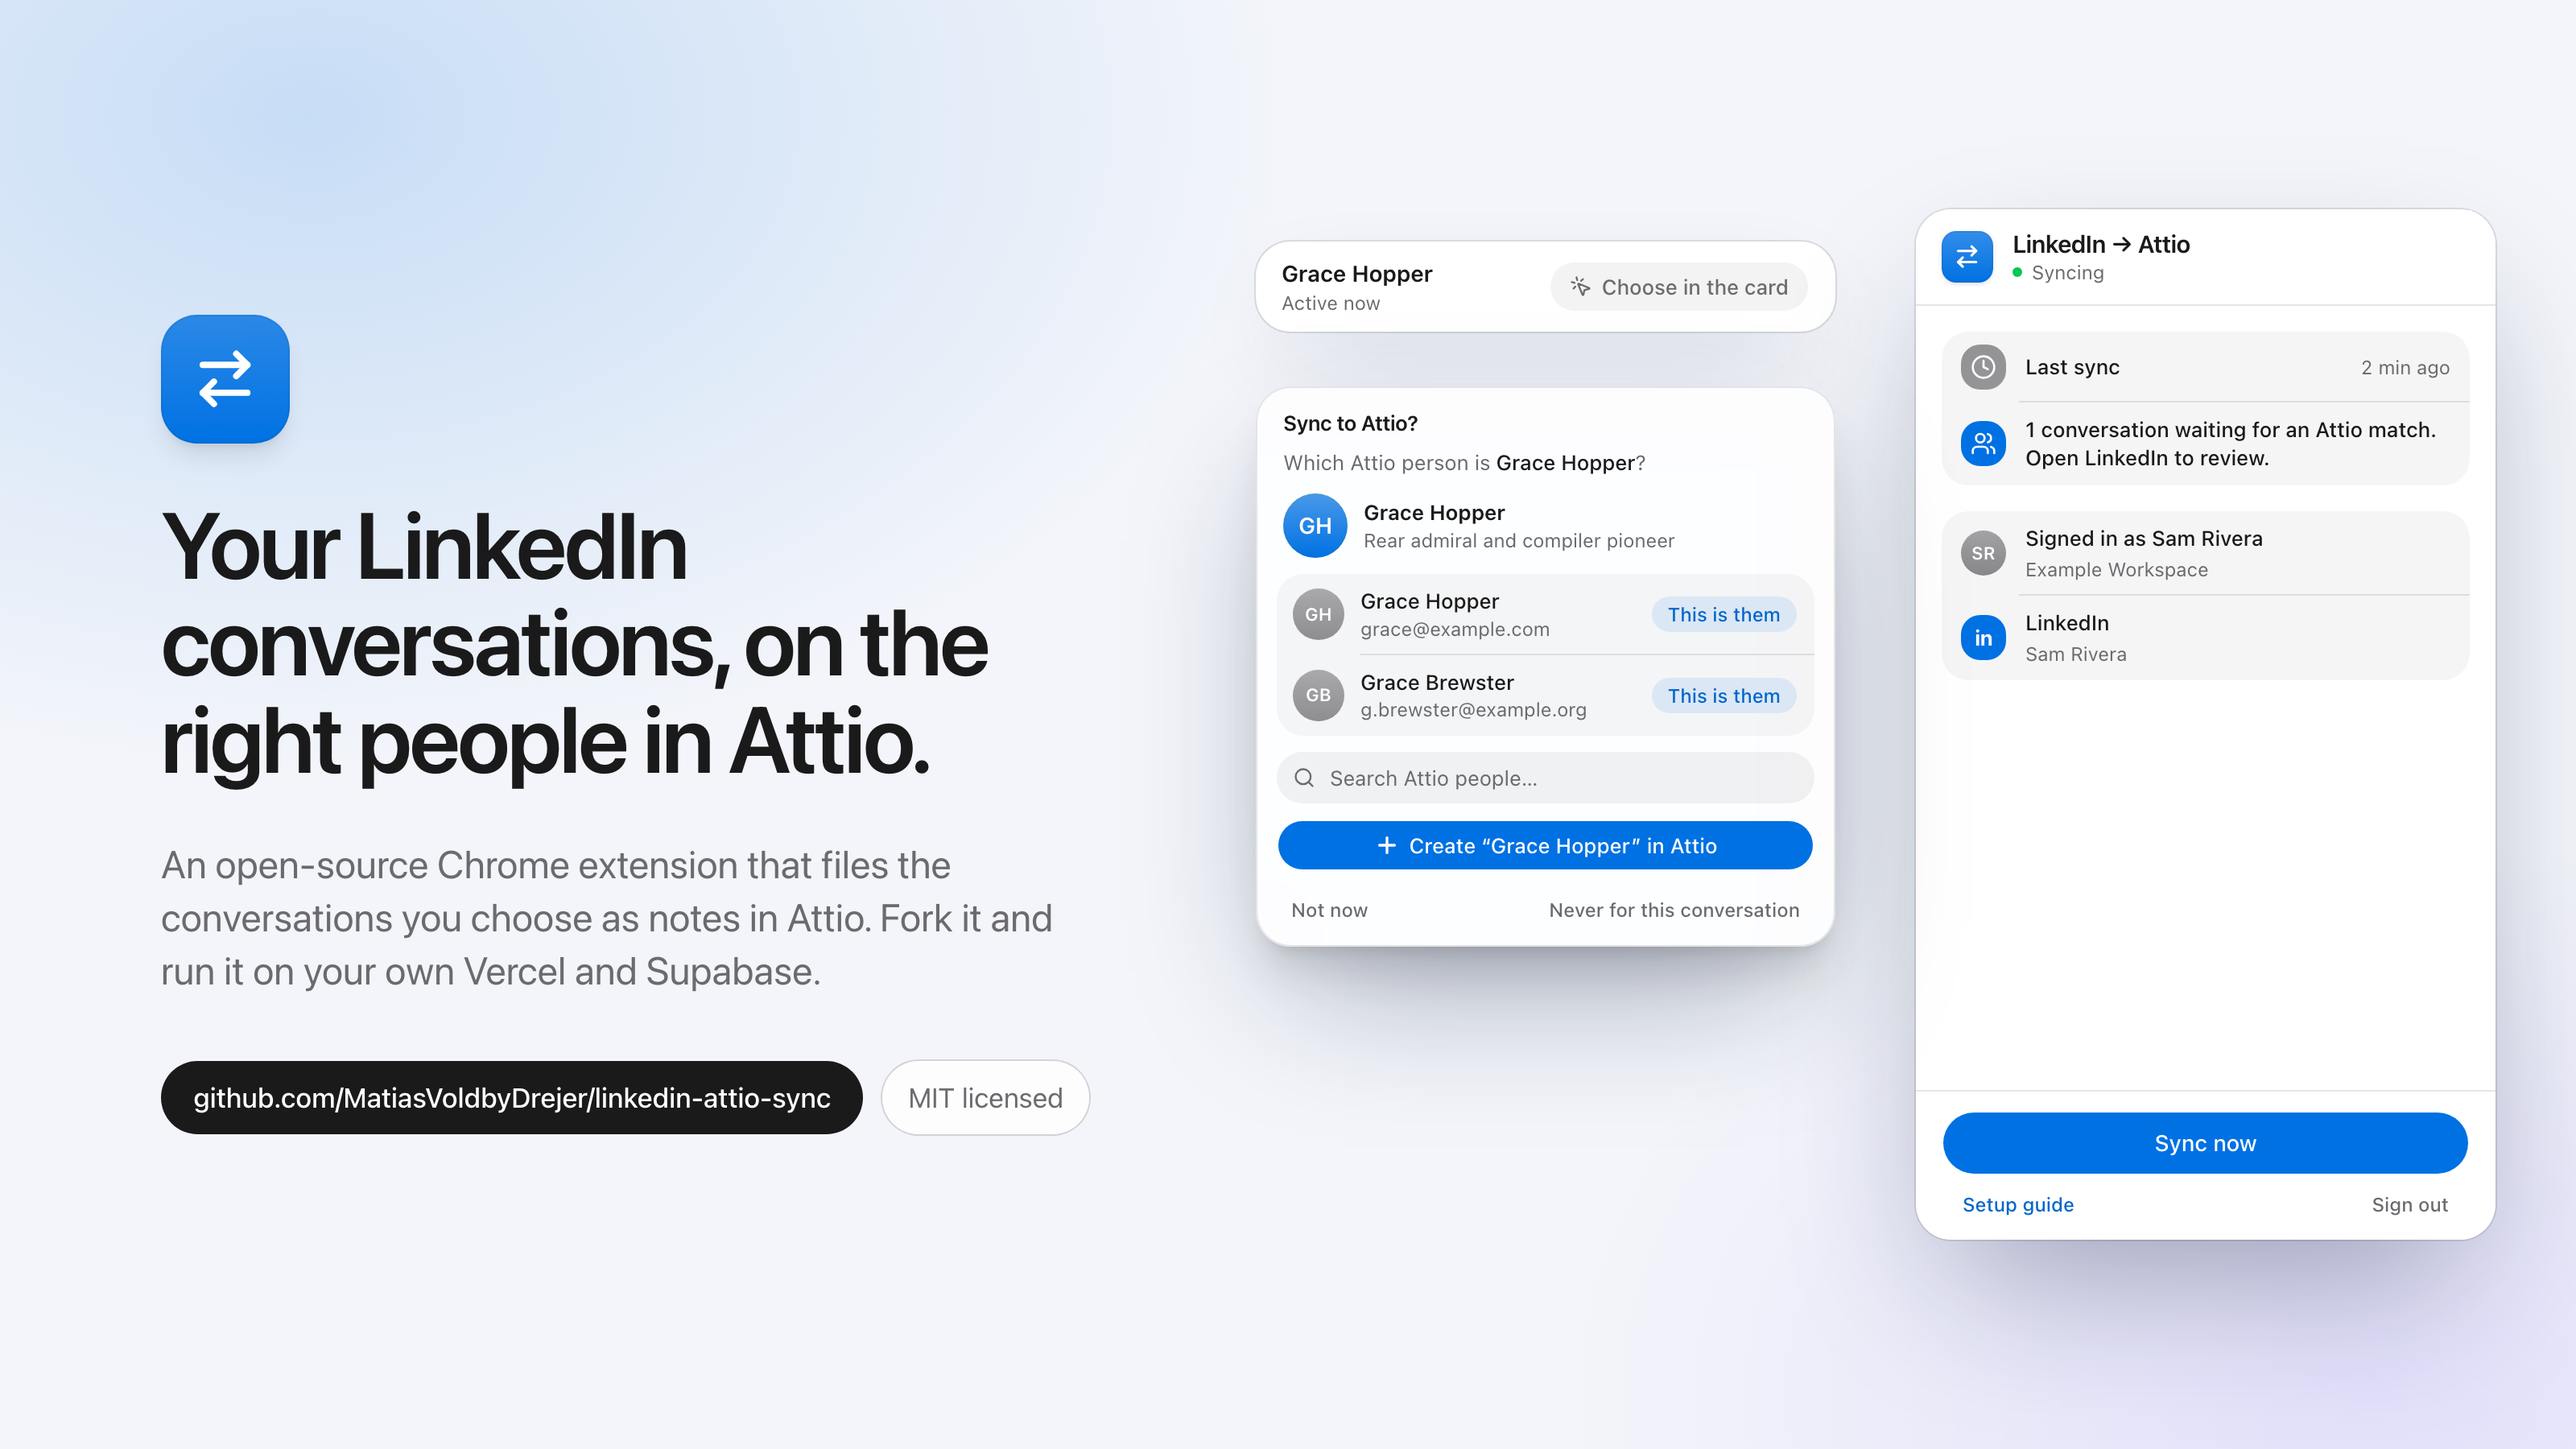
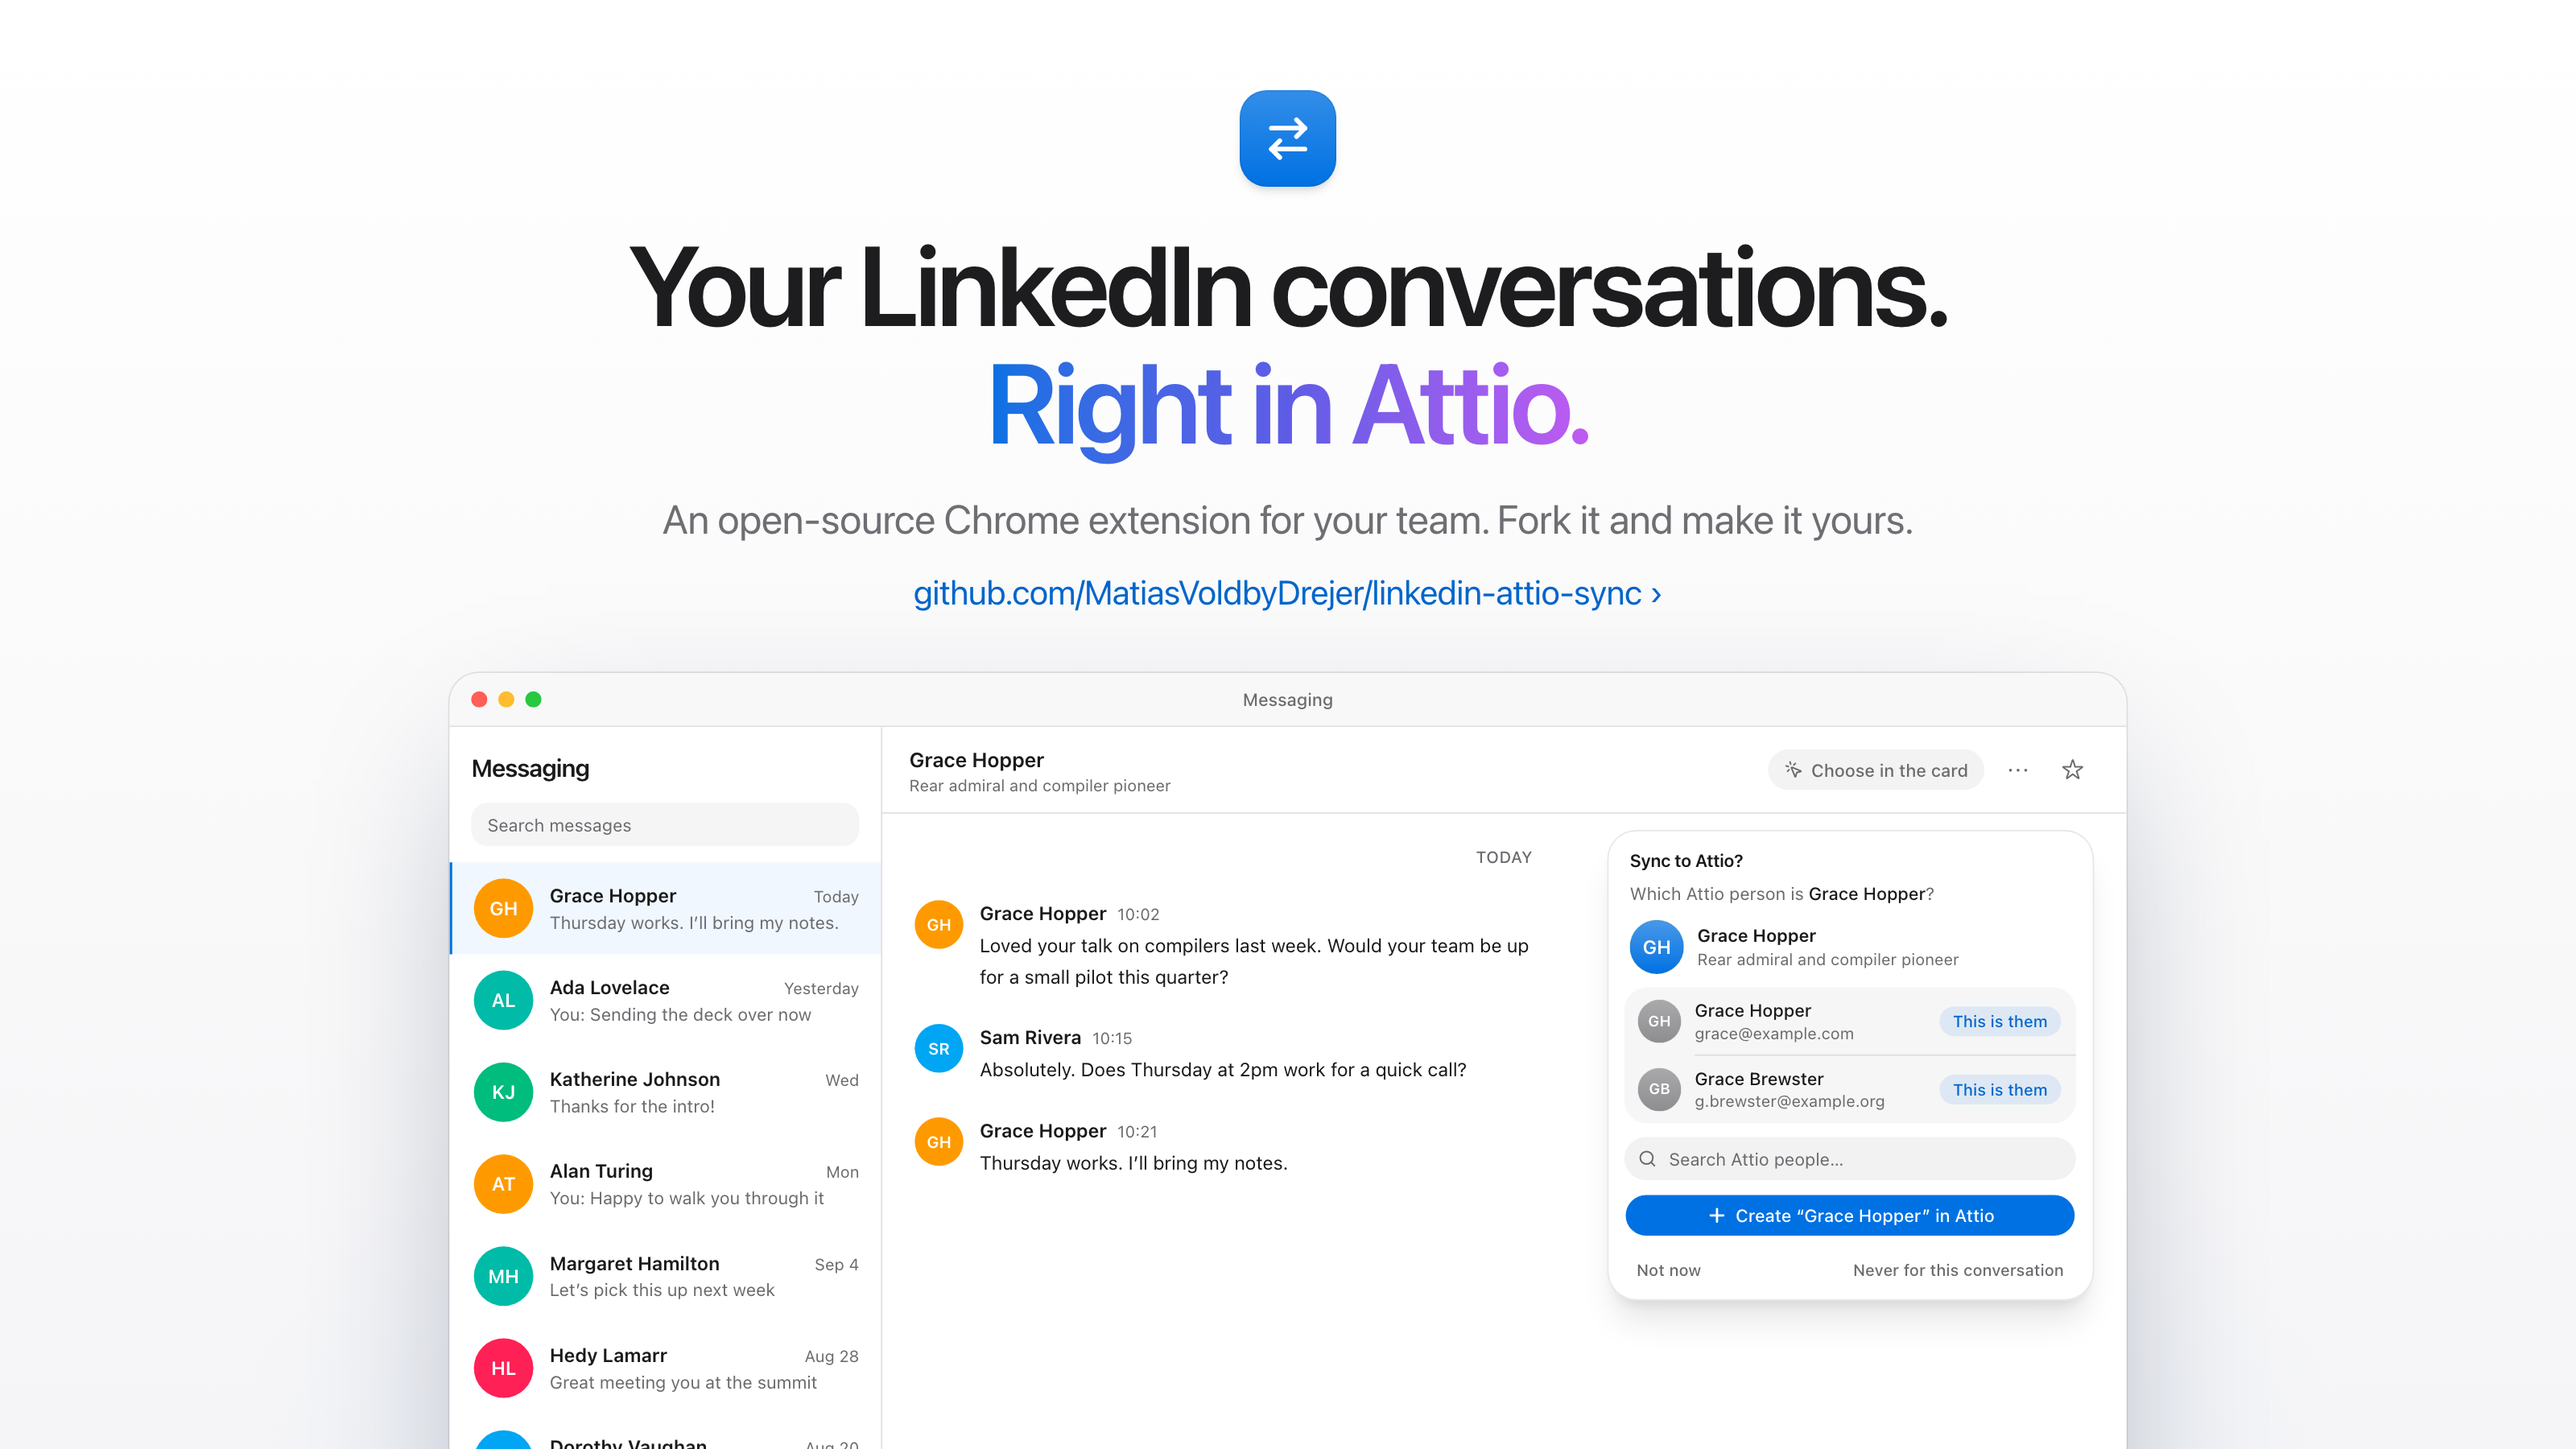
Restyle the social card

Changed region(s): [[0.0, 0.0, 1.0, 1.0], [0.4688, 0.0622, 0.5312, 0.1244], [0.3125, 0.9956, 0.3438, 1.0]]

diff --git a/apps/web/src/app/preview/shots/shots.tsx b/apps/web/src/app/preview/shots/shots.tsx
@@ -88,6 +88,8 @@ const review: ReviewResponse = {
   ],
 }
 
+const LAST_SYNC_AT = Date.now() - 2 * 60_000
+
 const THREADS = [
   { name: 'Grace Hopper', snippet: 'Thursday works. I’ll bring my notes.', when: 'Today' },
   { name: 'Ada Lovelace', snippet: 'You: Sending the deck over now', when: 'Yesterday' },
@@ -123,15 +125,24 @@ function Initials({ name, className }: { name: string; className?: string }) {
 }
 
 /** Soft tinted backdrop the product sits on. */
-function Stage({ children, className }: { children: React.ReactNode; className?: string }) {
+function Stage({ children, className, plain }: { children: React.ReactNode; className?: string; plain?: boolean }) {
   return (
     <div
       className={cn('relative flex h-screen w-screen items-center justify-center overflow-hidden font-sans text-foreground antialiased', className)}
-      style={{
-        backgroundColor: '#f3f5fa',
-        backgroundImage:
-          'radial-gradient(55% 65% at 12% 8%, rgba(0,113,227,0.18), transparent 70%), radial-gradient(45% 55% at 92% 96%, rgba(124,92,255,0.14), transparent 70%)',
-      }}
+      style={
+        plain
+          ? {
+              // white fading to Apple's #f5f5f7, with a faint glow where the product sits
+              backgroundColor: '#ffffff',
+              backgroundImage:
+                'radial-gradient(55% 50% at 50% 100%, rgba(0,113,227,0.10), transparent 75%), linear-gradient(#ffffff, #f5f5f7)',
+            }
+          : {
+              backgroundColor: '#f3f5fa',
+              backgroundImage:
+                'radial-gradient(55% 65% at 12% 8%, rgba(0,113,227,0.18), transparent 70%), radial-gradient(45% 55% at 92% 96%, rgba(124,92,255,0.14), transparent 70%)',
+            }
+      }
     >
       {/* the Next.js dev indicator isn't part of the picture */}
       <style>{'nextjs-portal{display:none!important}'}</style>
@@ -162,7 +173,18 @@ function Window({ title, className, children }: { title?: string; className?: st
 }
 
 /** A generic messaging page: thread list, then the open thread with the Sync pill in its header. */
-function Messaging({ pill, showCard, compactList }: { pill: SyncPillState; showCard?: boolean; compactList?: boolean }) {
+function Messaging({
+  pill,
+  showCard,
+  cardPosition = 'right-6 bottom-6',
+  compactList,
+}: {
+  pill: SyncPillState
+  showCard?: boolean
+  /** Where the card floats in the thread pane; LinkedIn shows it bottom-right */
+  cardPosition?: string
+  compactList?: boolean
+}) {
   return (
     <div className="flex h-full bg-background">
       <aside className={cn('flex shrink-0 flex-col border-r border-border/70', compactList ? 'w-[280px]' : 'w-[320px]')}>
@@ -219,7 +241,7 @@ function Messaging({ pill, showCard, compactList }: { pill: SyncPillState; showC
         <div className="mx-5 mb-5 h-20 shrink-0 rounded-xl bg-muted/70 px-4 py-3 text-sm text-muted-foreground">Write a message…</div>
 
         {showCard && (
-          <div className="absolute right-6 bottom-6">
+          <div className={cn('absolute', cardPosition)}>
             <LinkCard
               link={pendingLink}
               total={1}
@@ -248,7 +270,7 @@ function Panel({ className }: { className?: string }) {
       me={me}
       update={null}
       health={{ status: 'ok' }}
-      lastSyncAt={Date.now() - 2 * 60_000}
+      lastSyncAt={LAST_SYNC_AT}
       lastError={null}
       pendingCount={1}
       syncing={false}
@@ -311,51 +333,28 @@ function SidePanelShot() {
 
 function SocialShot() {
   return (
-    <Stage className="justify-start">
-      <div className="flex w-[760px] shrink-0 flex-col gap-8 pl-[100px]">
-        <AppIcon className="size-20 shadow-lg" />
-        <h1 className="text-[58px] leading-[1.04] font-semibold tracking-[-0.03em] text-balance">
-          Your LinkedIn conversations, on the right people in Attio.
-        </h1>
-        <p className="max-w-[560px] text-[24px] leading-snug text-pretty text-muted-foreground">
-          An open-source Chrome extension that files the conversations you choose as notes in Attio. Fork it and run it on your
-          own Vercel and Supabase.
-        </p>
-        <div className="flex flex-wrap items-center gap-3 pt-2">
-          <span className="rounded-full bg-foreground px-5 py-2.5 text-[17px] font-medium text-background">{REPOSITORY}</span>
-          <span className="rounded-full bg-background/80 px-4 py-2.5 text-[17px] text-muted-foreground ring-1 ring-border">
-            MIT licensed
+    // an Apple product page: a short centred headline, one line of copy, a link, then the product cropped by the edge
+    <Stage plain className="flex-col justify-start">
+      <div className="flex flex-col items-center pt-[56px] text-center">
+        <AppIcon className="size-[60px] shadow-md" />
+        <h1 className="mt-6 text-[70px] leading-[1.04] font-semibold tracking-[-0.035em] text-[#1d1d1f]">
+          Your LinkedIn conversations.
+          <br />
+          <span className="bg-linear-to-r from-[#0071e3] via-[#5e5ce6] to-[#bf5af2] bg-clip-text text-transparent">
+            Right in Attio.
           </span>
-        </div>
+        </h1>
+        <p className="mt-5 text-[25px] leading-snug tracking-[-0.01em] text-[#6e6e73]">
+          An open-source Chrome extension for your team. Fork it and make it yours.
+        </p>
+        <p className="mt-3 text-[21px] tracking-[-0.01em] text-[#0066cc]">{REPOSITORY} ›</p>
       </div>
 
-      <div className="relative h-full flex-1">
-        {/* on LinkedIn: the thread header with its pill, then the prompt; the side panel beside them */}
-        <div className="absolute top-[150px] left-[20px] flex h-14 w-[360px] items-center justify-between rounded-2xl bg-background px-4 shadow-[0_24px_60px_-20px_rgba(15,30,60,0.3)] ring-1 ring-black/10">
-          <div className="min-w-0">
-            <div className="truncate text-sm font-semibold">Grace Hopper</div>
-            <div className="truncate text-xs text-muted-foreground">Active now</div>
-          </div>
-          <SyncPill variant="inline" state={{ kind: 'picking' }} signedIn onClick={noop} />
-        </div>
-        <div className="absolute top-[130px] right-[50px] h-[640px] w-[360px] overflow-hidden rounded-[22px] bg-background shadow-[0_40px_90px_-24px_rgba(15,30,60,0.38)] ring-1 ring-black/10">
-          <Panel className="h-full" />
-        </div>
-        <div className="absolute top-[240px] left-[20px] rounded-2xl shadow-[0_40px_90px_-24px_rgba(15,30,60,0.4)]">
-          <LinkCard
-            link={pendingLink}
-            total={1}
-            query=""
-            results={null}
-            error={null}
-            busy={false}
-            onQueryChange={noop}
-            onLink={noop}
-            onCreate={noop}
-            onSnooze={noop}
-            onIgnore={noop}
-          />
-        </div>
+      <div className="absolute top-[418px] left-1/2 w-[1240px] origin-top -translate-x-1/2 scale-[0.84]">
+        <Window title="Messaging" className="h-[740px] w-[1240px] shadow-[0_50px_120px_-30px_rgba(15,30,60,0.35)]">
+          {/* below the thread header, so its Sync pill stays in view above the crop */}
+          <Messaging pill={{ kind: 'picking' }} showCard cardPosition="top-[76px] right-6" />
+        </Window>
       </div>
     </Stage>
   )
